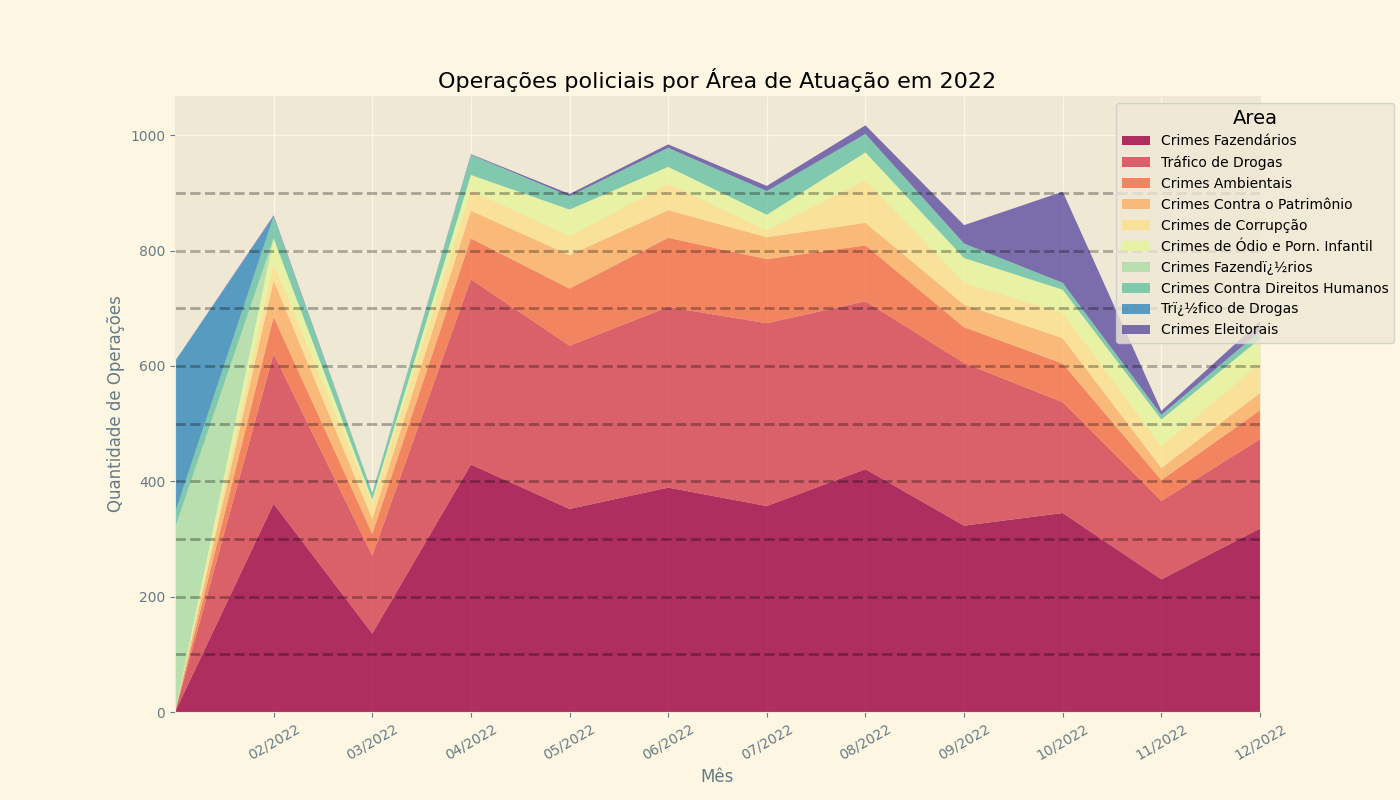
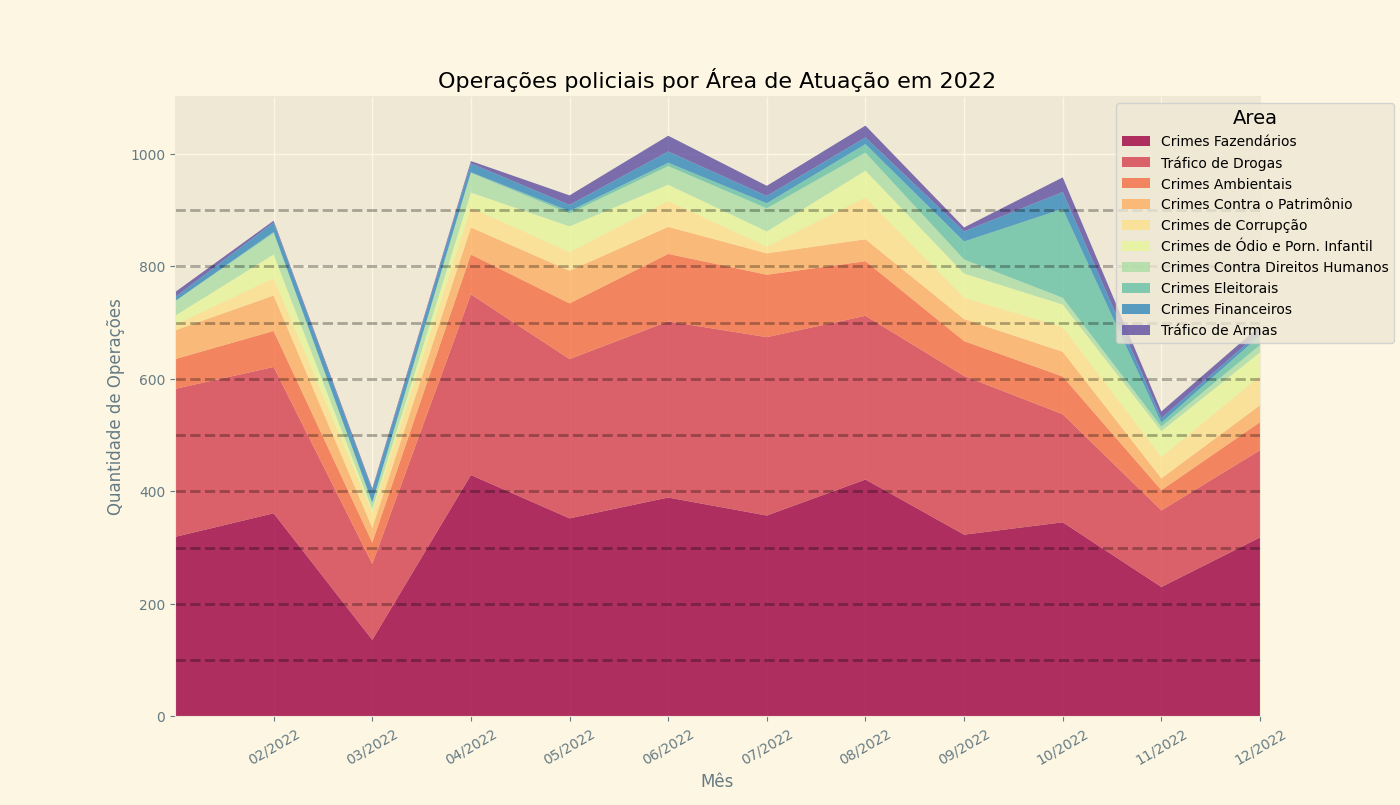
Arrumando bug

diff --git a/pages/guilherme.html b/pages/guilherme.html
@@ -38,7 +38,7 @@
         </p>
 
         <div class="explic_graph">
-            <img src="../graficos/graficojoao.png" alt="nós". height="500", width="900px">
+            <img src="../graficos/graficoguilherme.png" alt="nós". height="500", width="900px">
         </div>
 
         <p class="texto_explic">

diff --git a/gustavo.py b/gustavo.py
@@ -23,18 +23,20 @@ def make_gustavo_plot(df):
     df_copia = remover_espacos(df)
     df_copia = filtrar_colunas(df_copia, "Data da Deflagracao", "Area")
 
+    # print(df_copia["Area"].unique())
+
     #Deixando mais curtos os títulos para que a legenda seja mais legível
     df_copia.loc[df_copia["Area"] == "Crimes Ambientais e Contra o Patrimônio Cultural", "Area"] = "Crimes Ambientais"
     df_copia.loc[df_copia["Area"] == "Crimes de Ódio e Pornografia Infantil", "Area"] = "Crimes de Ódio e Porn. Infantil"
     
-    df_copia["Mes"] = pd.to_datetime(df_copia['Data da Deflagracao']).dt.strftime('%m/%Y')
+    df_copia["Data de Deflagracao"] = df_copia['Data da Deflagracao'].dt.strftime('%m/%Y')
     #TODO remover a mensagem de aviso q isso aqui tá dando
 
     # Usado para saber as áreas de atuação das operações mais frequêntes
     contagem_area = df_copia["Area"].value_counts().index
 
     # Agrupa por mês e área de atuação as operações
-    grouped = df_copia.groupby(['Area', 'Mes']).size().unstack(fill_value=0)
+    grouped = df_copia.groupby(['Area', 'Data de Deflagracao']).size().unstack(fill_value=0)
 
     grouped = grouped.loc[contagem_area[:10]]
 
@@ -56,6 +58,7 @@ def make_gustavo_plot(df):
     
     plt.title("Operações policiais por Área de Atuação em 2022")
     plt.legend(title='Area', title_fontsize='14', loc='upper right', bbox_to_anchor=(1.13, 1))
+    plt.show()
 
     return plot
 

diff --git a/datacleaning.py b/datacleaning.py
@@ -1,4 +1,5 @@
 import pandas as pd
+from funcoes import remover_espacos
 
 pd.set_option('display.max_columns', None)
 
@@ -37,6 +38,7 @@ def clean_data(df):
     df.dropna(axis=1, how='all', inplace=True)
 
     df = arrumar_tipos(df)
+    df = remover_espacos(df)
     df = arrumar_escrita(df)
 
     return df

diff --git a/main.py b/main.py
@@ -6,7 +6,7 @@ from vinicius import make_vinicius_plot
 df = funcoes.collect_data()
 
 df = datacleaning.clean_data(df)
-# print(df)
+# print(df["Area"].unique())
 
-make_gustavo_plot(df)
-make_vinicius_plot()
+# make_gustavo_plot(df)
+# make_vinicius_plot()
